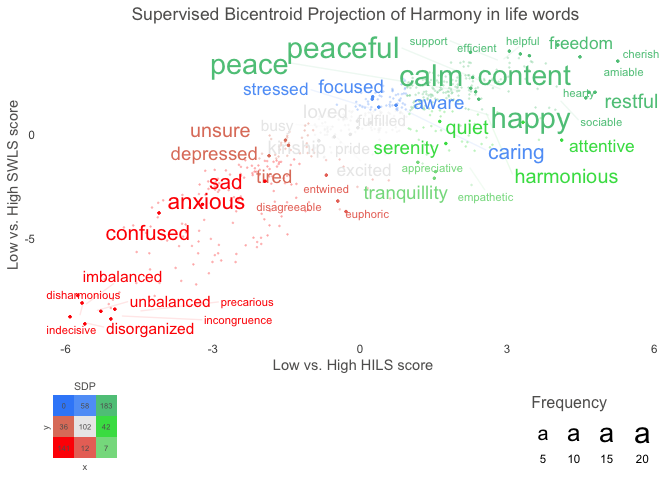
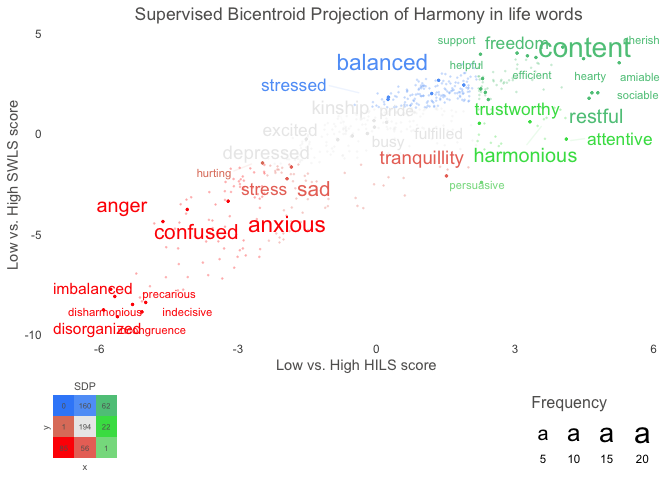
URL update

diff --git a/README.md b/README.md
@@ -5,7 +5,7 @@
 
 <!-- badges: start -->
 
-[![codecov](https://codecov.io/gh/oscarkjell/text/branch/master/graph/badge.svg?)](https://codecov.io/gh/oscarkjell/text)
+[![codecov](https://app.codecov.io/gh/oscarkjell/text/branch/master/graph/badge.svg?)](https://app.codecov.io/gh/oscarkjell/text)
 [![CRAN
 Status](https://www.r-pkg.org/badges/version/text)](https://CRAN.R-project.org/package=text)
 [![Github build
@@ -14,7 +14,7 @@ status](https://github.com/oscarkjell/text/workflows/R-CMD-check/badge.svg)](htt
 state and is being actively
 developed](https://www.repostatus.org/badges/latest/active.svg)](https://www.repostatus.org/#active)
 [![Lifecycle:
-maturing](https://img.shields.io/badge/lifecycle-maturing-blue.svg)](https://www.tidyverse.org/lifecycle/#maturing)
+maturing](https://img.shields.io/badge/lifecycle-maturing-blue.svg)](https://lifecycle.r-lib.org/articles/stages.html#maturing-1)
 [![CRAN
 Downloads](https://cranlogs.r-pkg.org/badges/grand-total/text)](https://CRAN.R-project.org/package=text)
 
@@ -107,6 +107,8 @@ multilingual BERT comprises *104 different languages*.
 
 *Table 1. Some of the available language models*
 
+    #> Warning: package 'magrittr' was built under R version 4.0.5
+
 | Models                         | References                                                       | Layers | Dimensions | Language                                                                             |
 |:-------------------------------|:-----------------------------------------------------------------|:-------|:-----------|:-------------------------------------------------------------------------------------|
 | ‘bert-base-uncased’            | [Devlin et al. 2019](https://www.aclweb.org/anthology/N19-1423/) | 12     | 768        | English                                                                              |
@@ -147,28 +149,29 @@ plot_projection
 
     #> 
     #> $description
-    #> [1] "INFORMATION ABOUT THE PROJECTION words = $ wordembeddings = Information about the embeddings. textEmbedLayersOutput:  model: bert-base-uncased layers: 11 12 . textEmbedLayerAggregation: layers =  11 12 aggregate_layers =  concatenate aggregate_tokens =  mean tokens_select =   tokens_deselect =   single_wordembeddings = Information about the embeddings. textEmbedLayersOutput:  bert-base-uncased layers: 11 12 . textEmbedLayerAggregation: layers =  11 12 aggregate_layers =  concatenate aggregate_tokens =  mean tokens_select =   tokens_deselect =   x = $ y = $ pca =  aggregation =  mean split =  quartile word_weight_power = 1 min_freq_words_test = 0 Npermutations = 1e+06 n_per_split = 1e+05 words = Language_based_assessment_data_8_100 wordembeddings = Information about the embeddings. textEmbedLayersOutput:  model: bert-base-uncased layers: 11 12 . textEmbedLayerAggregation: layers =  11 12 aggregate_layers =  concatenate aggregate_tokens =  mean tokens_select =   tokens_deselect =   single_wordembeddings = Information about the embeddings. textEmbedLayersOutput:  bert-base-uncased layers: 11 12 . textEmbedLayerAggregation: layers =  11 12 aggregate_layers =  concatenate aggregate_tokens =  mean tokens_select =   tokens_deselect =   x = Language_based_assessment_data_8_100 y = Language_based_assessment_data_8_100 pca =  aggregation =  mean split =  quartile word_weight_power = 1 min_freq_words_test = 0 Npermutations = 1e+06 n_per_split = 1e+05 words = harmonywords wordembeddings = Information about the embeddings. textEmbedLayersOutput:  model: bert-base-uncased layers: 11 12 . textEmbedLayerAggregation: layers =  11 12 aggregate_layers =  concatenate aggregate_tokens =  mean tokens_select =   tokens_deselect =   single_wordembeddings = Information about the embeddings. textEmbedLayersOutput:  bert-base-uncased layers: 11 12 . textEmbedLayerAggregation: layers =  11 12 aggregate_layers =  concatenate aggregate_tokens =  mean tokens_select =   tokens_deselect =   x = hilstotal y = swlstotal pca =  aggregation =  mean split =  quartile word_weight_power = 1 min_freq_words_test = 0 Npermutations = 1e+06 n_per_split = 1e+05 INFORMATION ABOUT THE PLOT word_data = DP_projections_HILS_SWLS_100 k_n_words_to_test = FALSE min_freq_words_test = 1 min_freq_words_plot = 1 plot_n_words_square = 3 plot_n_words_p = 5 plot_n_word_extreme = 5 plot_n_word_frequency = 5 plot_n_words_middle = 5 y_axes = TRUE p_alpha = 0.05 p_adjust_method = none bivariate_color_codes = #398CF9 #60A1F7 #5dc688 #e07f6a #EAEAEA #40DD52 #FF0000 #EA7467 #85DB8E word_size_range = 3 - 8 position_jitter_hight = 0.5 position_jitter_width = 0.8 point_size = 0.5 arrow_transparency = 0.5 points_without_words_size = 0.2 points_without_words_alpha = 0.2 legend_x_position = 0.02 legend_y_position = 0.02 legend_h_size = 0.2 legend_w_size = 0.2 legend_title_size = 7 legend_number_size = 2"
+    #> [1] "INFORMATION ABOUT THE PROJECTION type = textProjection words = $ wordembeddings = Information about the embeddings. textEmbedLayersOutput:  model: bert-base-uncased ;  layers: 11 12 . Warnings from python:  Some weights of the model checkpoint at bert-base-uncased were not used when initializing BertModel: ['cls.seq_relationship.bias', 'cls.seq_relationship.weight', 'cls.predictions.transform.LayerNorm.bias', 'cls.predictions.transform.dense.bias', 'cls.predictions.decoder.weight', 'cls.predictions.bias', 'cls.predictions.transform.LayerNorm.weight', 'cls.predictions.transform.dense.weight']\n- This IS expected if you are initializing BertModel from the checkpoint of a model trained on another task or with another architecture (e.g. initializing a BertForSequenceClassification model from a BertForPreTraining model).\n- This IS NOT expected if you are initializing BertModel from the checkpoint of a model that you expect to be exactly identical (initializing a BertForSequenceClassification model from a BertForSequenceClassification model).\n\n textEmbedLayerAggregation: layers =  11 12 aggregate_layers =  concatenate aggregate_tokens =  mean tokens_select =   tokens_deselect =   single_wordembeddings = Information about the embeddings. textEmbedLayersOutput:  model: bert-base-uncased layers: 11 12 . textEmbedLayerAggregation: layers =  11 12 aggregate_layers =  concatenate aggregate_tokens =  mean tokens_select =   tokens_deselect =   x = $ y = $ pca =  aggregation =  mean split =  quartile word_weight_power = 1 min_freq_words_test = 0 Npermutations = 1e+06 n_per_split = 1e+05 type = textProjection words = Language_based_assessment_data_3_100 wordembeddings = Information about the embeddings. textEmbedLayersOutput:  model: bert-base-uncased ;  layers: 11 12 . Warnings from python:  Some weights of the model checkpoint at bert-base-uncased were not used when initializing BertModel: ['cls.seq_relationship.bias', 'cls.seq_relationship.weight', 'cls.predictions.transform.LayerNorm.bias', 'cls.predictions.transform.dense.bias', 'cls.predictions.decoder.weight', 'cls.predictions.bias', 'cls.predictions.transform.LayerNorm.weight', 'cls.predictions.transform.dense.weight']\n- This IS expected if you are initializing BertModel from the checkpoint of a model trained on another task or with another architecture (e.g. initializing a BertForSequenceClassification model from a BertForPreTraining model).\n- This IS NOT expected if you are initializing BertModel from the checkpoint of a model that you expect to be exactly identical (initializing a BertForSequenceClassification model from a BertForSequenceClassification model).\n\n textEmbedLayerAggregation: layers =  11 12 aggregate_layers =  concatenate aggregate_tokens =  mean tokens_select =   tokens_deselect =   single_wordembeddings = Information about the embeddings. textEmbedLayersOutput:  model: bert-base-uncased layers: 11 12 . textEmbedLayerAggregation: layers =  11 12 aggregate_layers =  concatenate aggregate_tokens =  mean tokens_select =   tokens_deselect =   x = Language_based_assessment_data_3_100 y = Language_based_assessment_data_3_100 pca =  aggregation =  mean split =  quartile word_weight_power = 1 min_freq_words_test = 0 Npermutations = 1e+06 n_per_split = 1e+05 type = textProjection words = harmonywords wordembeddings = Information about the embeddings. textEmbedLayersOutput:  model: bert-base-uncased ;  layers: 11 12 . Warnings from python:  Some weights of the model checkpoint at bert-base-uncased were not used when initializing BertModel: ['cls.seq_relationship.bias', 'cls.seq_relationship.weight', 'cls.predictions.transform.LayerNorm.bias', 'cls.predictions.transform.dense.bias', 'cls.predictions.decoder.weight', 'cls.predictions.bias', 'cls.predictions.transform.LayerNorm.weight', 'cls.predictions.transform.dense.weight']\n- This IS expected if you are initializing BertModel from the checkpoint of a model trained on another task or with another architecture (e.g. initializing a BertForSequenceClassification model from a BertForPreTraining model).\n- This IS NOT expected if you are initializing BertModel from the checkpoint of a model that you expect to be exactly identical (initializing a BertForSequenceClassification model from a BertForSequenceClassification model).\n\n textEmbedLayerAggregation: layers =  11 12 aggregate_layers =  concatenate aggregate_tokens =  mean tokens_select =   tokens_deselect =   single_wordembeddings = Information about the embeddings. textEmbedLayersOutput:  model: bert-base-uncased layers: 11 12 . textEmbedLayerAggregation: layers =  11 12 aggregate_layers =  concatenate aggregate_tokens =  mean tokens_select =   tokens_deselect =   x = hilstotal y = swlstotal pca =  aggregation =  mean split =  quartile word_weight_power = 1 min_freq_words_test = 0 Npermutations = 1e+06 n_per_split = 1e+05 INFORMATION ABOUT THE PLOT word_data = word_data k_n_words_to_test = FALSE min_freq_words_test = 1 min_freq_words_plot = 1 plot_n_words_square = 3 plot_n_words_p = 5 plot_n_word_extreme = 5 plot_n_word_frequency = 5 plot_n_words_middle = 5 y_axes = TRUE p_alpha = 0.05 p_adjust_method = none bivariate_color_codes = #398CF9 #60A1F7 #5dc688 #e07f6a #EAEAEA #40DD52 #FF0000 #EA7467 #85DB8E word_size_range = 3 - 8 position_jitter_hight = 0.5 position_jitter_width = 0.8 point_size = 0.5 arrow_transparency = 0.5 points_without_words_size = 0.2 points_without_words_alpha = 0.2 legend_x_position = 0.02 legend_y_position = 0.02 legend_h_size = 0.2 legend_w_size = 0.2 legend_title_size = 7 legend_number_size = 2"
     #> 
     #> $processed_word_data
-    #> # A tibble: 583 x 32
-    #>    words  dot.x p_values_dot.x n_g1.x n_g2.x  dot.y p_values_dot.y n_g1.y n_g2.y
-    #>    <chr>  <dbl>          <dbl>  <dbl>  <dbl>  <dbl>          <dbl>  <dbl>  <dbl>
-    #>  1 able   1.42      0.0140         NA      1  2.99      0.00000100     NA      1
-    #>  2 acce…  0.732     0.105          -1      2  1.40      0.0291         -1      2
-    #>  3 acco…  2.04      0.000409       NA      1  3.45      0.00000100     NA      1
-    #>  4 acti…  1.46      0.0121         NA      1  1.92      0.00399        NA      1
-    #>  5 adap…  2.40      0.00000100     NA      1  0.960     0.0865         -1     NA
-    #>  6 admi…  0.161     0.734          NA      1  1.58      0.0150         NA      1
-    #>  7 adri… -2.64      0.00000100     -1     NA -3.17      0.00000100     -1     NA
-    #>  8 affi…  1.03      0.0402         NA      1  2.24      0.00115        NA      1
-    #>  9 agre…  1.62      0.00657        NA      1  2.12      0.00161        NA      1
-    #> 10 alco… -2.15      0.00000100     -1     NA -1.78      0.00414        -1     NA
+    #> # A tibble: 583 × 32
+    #>    words   x_plotted p_values_x n_g1.x n_g2.x y_plotted p_values_y n_g1.y n_g2.y
+    #>    <chr>       <dbl>      <dbl>  <dbl>  <dbl>     <dbl>      <dbl>  <dbl>  <dbl>
+    #>  1 able        1.42      0.194       0      1     2.99  0.0000181       0      0
+    #>  2 accept…     0.732     0.451      -1      1     1.40  0.0396         -1      1
+    #>  3 accord      2.04      0.0651      0      1     3.45  0.00000401      0      1
+    #>  4 active      1.46      0.180       0      1     1.92  0.00895         0      1
+    #>  5 adapta…     2.40      0.0311      0      0     0.960 0.113           0      0
+    #>  6 admiri…     0.161     0.839       0      0     1.58  0.0255          0      0
+    #>  7 adrift     -2.64      0.0245     -1      0    -3.17  0.0000422      -1      0
+    #>  8 affini…     1.03      0.320       0      1     2.24  0.00324         0      1
+    #>  9 agreei…     1.62      0.140       0      1     2.12  0.00500         0      0
+    #> 10 alcohol    -2.15      0.0822     -1      0    -1.78  0.0212          0      0
     #> # … with 573 more rows, and 23 more variables: n <dbl>, n.percent <dbl>,
     #> #   N_participant_responses <int>, adjusted_p_values.x <dbl>,
     #> #   adjusted_p_values.y <dbl>, square_categories <dbl>, check_p_square <dbl>,
     #> #   check_p_x_neg <dbl>, check_p_x_pos <dbl>, check_extreme_max_x <dbl>,
     #> #   check_extreme_min_x <dbl>, check_extreme_frequency_x <dbl>,
     #> #   check_middle_x <dbl>, extremes_all_x <dbl>, check_p_y_pos <dbl>,
-    #> #   check_p_y_neg <dbl>, check_extreme_max_y <dbl>, check_extreme_min_y <dbl>,
-    #> #   check_extreme_frequency_y <dbl>, check_middle_y <dbl>,
-    #> #   extremes_all_y <dbl>, extremes_all <dbl>, colour_categories <chr>
+    #> #   check_p_y_neg <dbl>, check_extreme_max_y <dbl>, …
+    #> 
+    #> $warning
+    #> [1] "This function will be depracted: instead use textPlot()"
